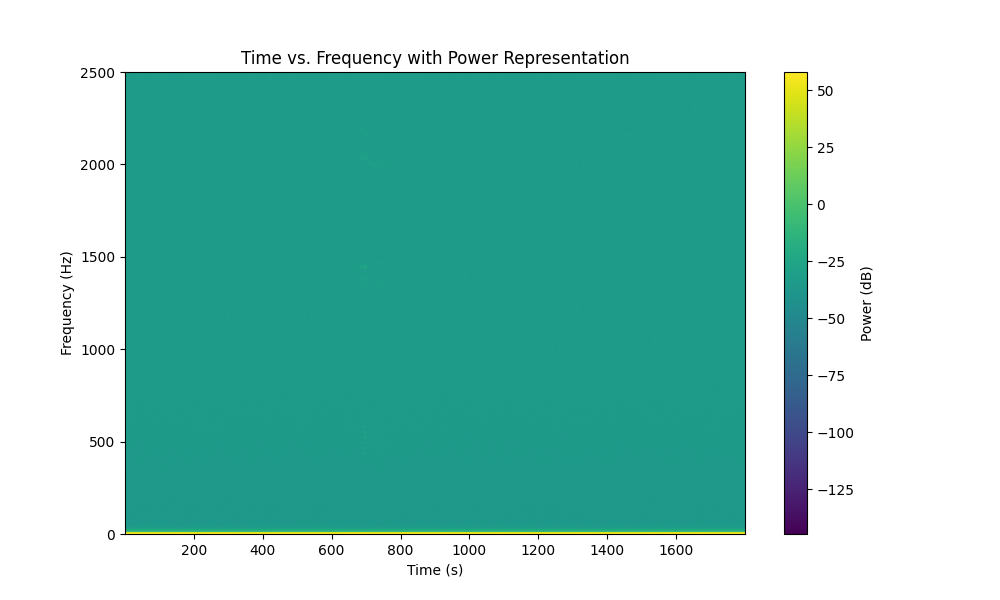
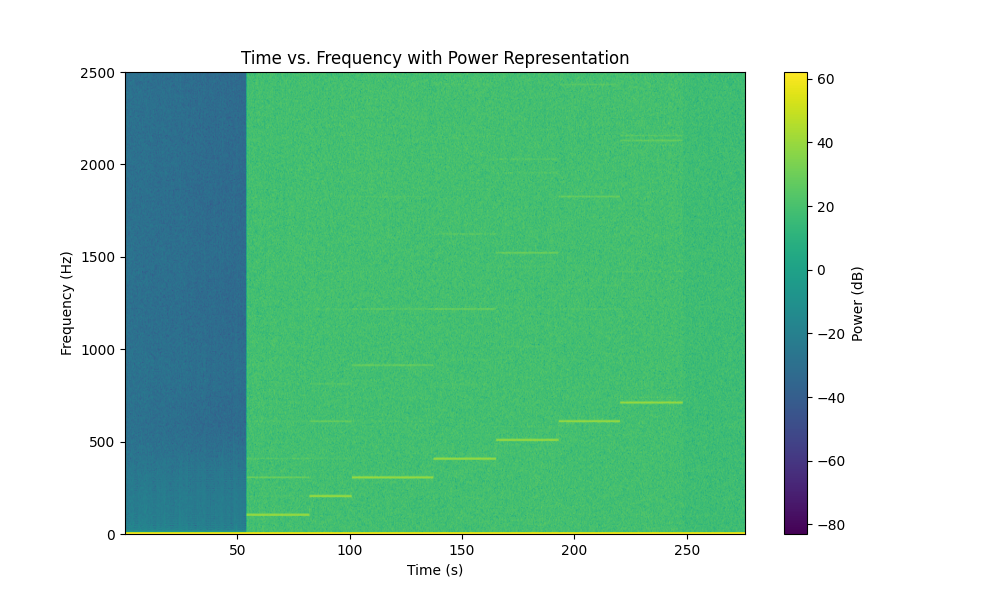
gitignore

diff --git a/decoder.py b/decoder.py
@@ -1,6 +1,6 @@
 #   This file is meant to test the decoder format/capabilities. It uses an example binary file
 # that we can check with and confirm the graph and other data looks corect. The script reads in the
-# binary file and performs a stft on the samples
+# binary file and performs a stft on the samples, then plots spectrogram
 
 import numpy as np                  # to receive data
 import matplotlib.pyplot as plt     # used for specgram plotting
